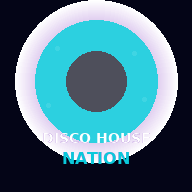
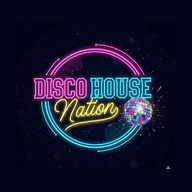
Add files via upload

diff --git a/index.html b/index.html
@@ -9,7 +9,8 @@
 <meta name="theme-color" content="#040517">
 <meta name="description" content="Disco House Nation — Live Disco & House Music 24/7">
 <link rel="manifest" href="manifest.json">
-<link rel="apple-touch-icon" href="icons/icon-192.png">
+<link rel="apple-touch-icon" href="icons/icon-180.png">
+<link rel="apple-touch-icon" sizes="192x192" href="icons/icon-192.png">
 <link rel="icon" type="image/svg+xml" href="icons/icon.svg">
 <title>Disco House Nation</title>
 <link href="https://fonts.googleapis.com/css2?family=Poppins:wght@400;500;600;700;800;900&display=swap" rel="stylesheet">
@@ -182,7 +183,7 @@ a { color: var(--cyan); text-decoration: none; }
 
 <!-- ═══ SPLASH ═══ -->
 <div id="splash">
-  <div class="logo">🪩</div>
+  <img src="icons/logo.png" style="width:180px;animation:spin 3s linear infinite;filter:drop-shadow(0 0 40px rgba(10,201,219,0.4)) drop-shadow(0 0 20px rgba(224,86,215,0.3));margin-bottom:20px" alt="DHN">
   <h1>DISCO HOUSE <span>NATION</span></h1>
   <p>Loading the groove...</p>
 </div>
@@ -196,7 +197,7 @@ a { color: var(--cyan); text-decoration: none; }
 
 <!-- ═══ NOW PLAYING ═══ -->
 <div id="nowPlaying">
-  <div class="np-art playing" id="npArt">🪩</div>
+  <div class="np-art" id="npArt"><img src="icons/logo.png" style="width:36px;height:36px;object-fit:contain;border-radius:6px" alt=""></div>
   <div class="np-info">
     <div class="np-label" id="npLabel">● LIVE</div>
     <div class="np-title" id="npTitle">Disco House Nation — 24/7 Disco & House</div>
@@ -434,13 +435,11 @@ function renderHome() {
     </div>
 
     <div style="text-align:center;margin-bottom:20px">
-      <div style="font-size:52px;filter:drop-shadow(0 0 30px rgba(10,201,219,0.4)) drop-shadow(0 0 15px rgba(224,86,215,0.3))">🪩</div>
-      <h1 style="font-size:22px;font-weight:900;letter-spacing:1px">DISCO HOUSE <span style="color:var(--cyan)">NATION</span></h1>
-      <p style="font-size:9px;color:var(--magenta);font-weight:600;margin-top:6px;letter-spacing:3px;text-transform:uppercase">The dance floor never sleeps</p>
+      <img src="icons/logo.png" style="width:200px;filter:drop-shadow(0 0 30px rgba(10,201,219,0.4)) drop-shadow(0 0 15px rgba(224,86,215,0.3))" alt="Disco House Nation">
     </div>
 
     <div class="card card-glow" style="padding:18px;margin-bottom:16px;position:relative;overflow:hidden">
-      <div style="position:absolute;top:-30px;right:-30px;font-size:100px;opacity:0.04;transform:rotate(15deg)">🪩</div>
+      <div style="position:absolute;top:-30px;right:-30px;opacity:0.06;transform:rotate(15deg)"><img src="icons/logo.png" style="width:140px" alt=""></div>
       <div class="live-badge" style="margin-bottom:12px"><span class="live-dot"></span> LIVE 24/7</div>
       <div style="display:flex;align-items:center;gap:14px">
         <div style="width:60px;height:60px;border-radius:16px;background:linear-gradient(135deg,var(--purple),var(--magenta));display:flex;align-items:center;justify-content:center;font-size:26px;flex-shrink:0;box-shadow:0 4px 20px rgba(224,86,215,0.3)">🎧</div>

diff --git a/sw.js b/sw.js
@@ -1,10 +1,12 @@
-const CACHE_NAME = 'dhn-v1';
+const CACHE_NAME = 'dhn-v2';
 const ASSETS = [
   '/app/',
   '/app/index.html',
   '/app/manifest.json',
+  '/app/icons/icon-180.png',
   '/app/icons/icon-192.png',
   '/app/icons/icon-512.png',
+  '/app/icons/logo.png',
   'https://fonts.googleapis.com/css2?family=Poppins:wght@400;500;600;700;800;900&display=swap'
 ];
 
